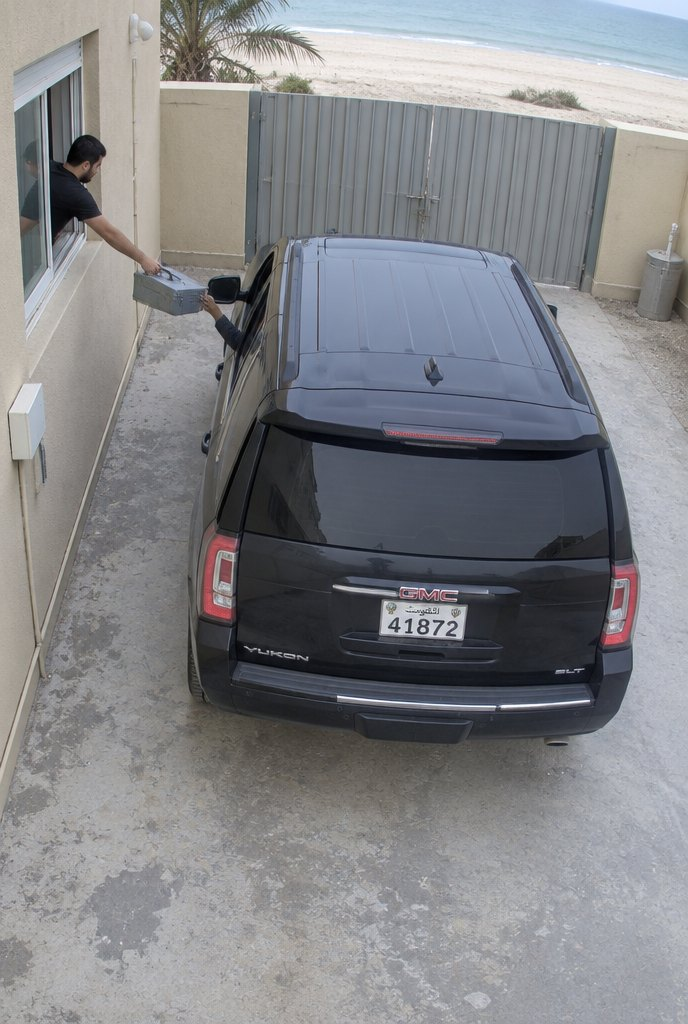
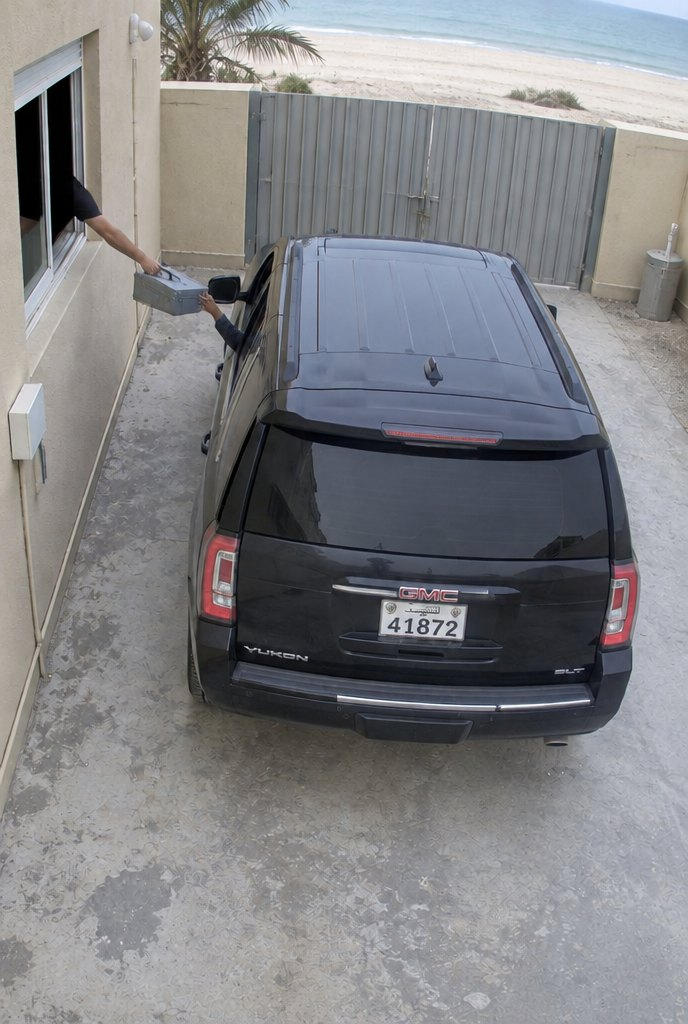
shaleh: rear-camera frame shows only an arm at the window; family-group selfie with the real لطيفة and نورة; torch hint points at الميدان
Claude-Session: https://claude.ai/code/session_01XahQzRDDJXyLXpYvVApHV5

diff --git a/public/shaleh/index.html b/public/shaleh/index.html
@@ -1894,7 +1894,7 @@ function runFail(){runTv('fail');runStop();S.pen+=120;save();SFX.bad();$('#runTa
 const HINTS={
  lock:['ما عطى أحد النقشة. بس الملف يقول عنه كل شي: درس ببريطانيا ٧ سنين وكل أوراقه إنجليزي، والشاليه سجّله باسم أمه، واللوحة اللي على باب غرفتها كتبها بخطه. شنو أغلى شي عنده؟ وشلون يكتبه؟','أمه أم عبدالعزيز، واسمها لطيفة — بأول سطر بالمحضر. وإهو يفكّر بالإنجليزي: أول حرف من Latifa إهو L — صورتها خلفية شاشته، وتوقيعه بمحضر الاستلام نفس الحرف. ارسموه على الشاشة.','الجواب: النقاط ١ ← ٤ ← ٧ ← ٨ ← ٩ (شكل L، من فوق يسار لتحت ثم يمين).'],
  cams:['بموبايل بوعبدالرزاق تطبيق <b>الكاميرات</b> — مقفول بكود ٤ أرقام. شركة الكاميرات طرّشت له الكود الافتراضي برسالة نصية يوم التركيب — جرّبوه.','الكود الافتراضي تغيّر، بس بوعبدالرزاق خلّى لنفسه تلميح: «السنة اللي بنيت الشاليه حق أمي». السنة مكتوبة على لوحة باب غرفتها — بمعرض الصور بموبايله — تحت الغبار.','الجواب: ١٩٩٨.'],
- torch1:['رضا قال شاف سيارة غريبة عند البوابة الخلفية. بتطبيق الكاميرات، كاميرا <b>بوابة الخدمة الخلفية</b> فريمها أسود — اضغطوه وشغّلوا الكشّاف. (تقدرون تطلّعونه على التلفزيون من cases.hyphen-eventskw.com/tv)','ثبّتوا الضوء ثانية على كل شي يبين: السيارة، والشباك اللي يمّها، واللوحة.','الجواب: جي إم سي سودا غريبة ٤:٠٥ عند البوابة الخلفية، وصندوق معدني ينعطى لها من شباك الديوانية. اللوحة ٤١٨٧٢. وبعدها: 🕒 خط اليوم.'],
+ torch1:['رضا قال شاف سيارة غريبة عند البوابة الخلفية. بتطبيق الكاميرات، كاميرا <b>بوابة الخدمة الخلفية</b> فريمها أسود — اضغطوه وشغّلوا الكشّاف. (تقدرون تطلّعونه على التلفزيون من cases.hyphen-eventskw.com/tv)','ثبّتوا الضوء ثانية على كل شي يبين: السيارة، والشباك اللي يمّها، واللوحة.','الجواب: جي إم سي سودا غريبة ٤:٠٥ عند البوابة الخلفية، وصندوق معدني ينعطى لها من شباك الديوانية. اللوحة ٤١٨٧٢. وبعدها: 🚓 الميدان بالملف.'],
  scall:['المرور عطونا رقم سالم — بتبويب 🚓 الميدان. من <b>هاتف المخفر</b> اطلبوا الرقم بنفسكم: الرقم الغلط ما يرن. أول مرة بيسكّر بوجهكم — اتصلوا مرة ثانية.','اسألوه بهدوء: وين كان، شنو أخذ، ومنو قفّل الصندوق. لو اتهمتوه بيسكّر ويركض — بتوصلون للمطاردة بس بدون معلوماته، وبدقيقة زيادة.','الجواب: الرقم <span dir="ltr">66047291</span>. وإهو يعترف إنه استلم صندوق مقفول من «واحد» ما يبي يسمّيه، وإن هاللي عطاه قفّله جدّامه وما عطاه الكود.'],
  plate:['اللوحة اللي لقيتوها بالكشّاف — المرور يقدر يقول منو صاحبها. تبويب <b>🚓 الميدان</b> بالملف.','اضغطوا «اطلبوا بيانات اللوحة».','الجواب: سالم، ٣١ سنة، الفنطاس — مو من العايلة. الدورية راحت له.'],
  chase:['سالم طلع يركض من الباب الخلفي. اضغطوا «لحقوه» بتبويب الميدان، واركضوا بمكانكم والموبايل بإيدكم — كل خطوة تقرّبكم منه.','كل خطوة تنحسب من هزّة الموبايل. اركضوا بقوة ٦٠ ثانية. على اللابتوب اضغطوا الزر بسرعة.','الجواب: ٧٠ خطوة قبل ما يركب سيارته. لو هرب، +دقيقتين وجرّبوا مرة ثانية.'],
